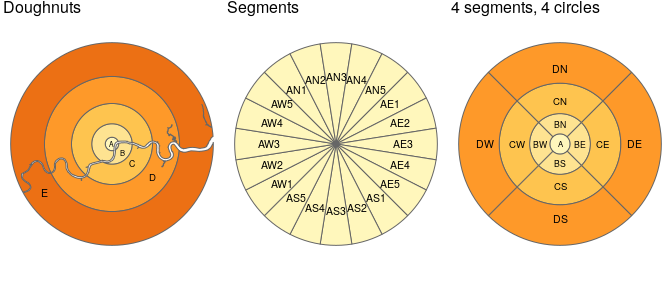
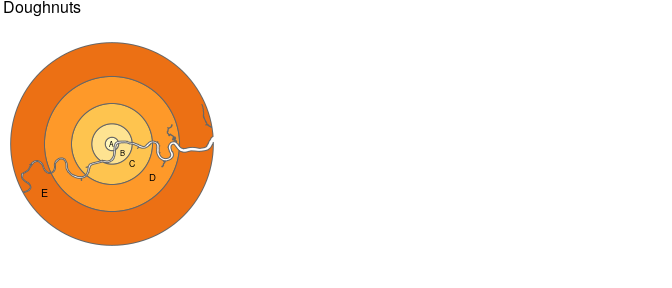
Update README - release version

diff --git a/README.md b/README.md
@@ -7,6 +7,8 @@
 <!-- [![Codecov test coverage](https://codecov.io/gh/zonebuilders/zonebuilder/branch/master/graph/badge.svg)](https://codecov.io/gh/zonebuilders/zonebuilder?branch=master) -->
 
 [![R-CMD-check](https://github.com/zonebuilders/zonebuilder/workflows/R-CMD-check/badge.svg)](https://github.com/zonebuilders/zonebuilder/actions)
+[![CRAN
+status](https://www.r-pkg.org/badges/version/zonebuilder)](https://CRAN.R-project.org/package=zonebuilder)
 <!-- badges: end -->
 
 The goal of zonebuilder is to break up large geographic regions such as
@@ -18,7 +20,12 @@ cities. See its website at
 
 ## Installation
 
-<!-- You can install the released version of zonebuilder from [CRAN](https://CRAN.R-project.org) with: -->
+You can install the released version of zonebuilder from
+[CRAN](https://CRAN.R-project.org) with:
+
+``` r
+install.packages("zonebuilder")
+```
 
 Install it from [GitHub](https://github.com/) with:
 
@@ -32,13 +39,13 @@ remotes::install_github("zonebuilders/zonebuilder")
 Zonebuilder builds on the `sf` package and works well with mapping
 packages such as `ggplot2`, `leaflet`, `mapdeck`, `mapview` and `tmap`,
 the last of which we’ll use in the following maps. Attaching the package
-provides the example datasets `london_area` and `london_cent`, the
+provides the example datasets `london_a()` and `london_c()`, the
 geographic boundary and the centre of London:
 
 ``` r
 library(zonebuilder)
 library(tmap)
-tm_shape(london_area) + tm_borders() + tm_shape(london_cent) + tm_dots("red")
+tm_shape(london_a()) + tm_borders() + tm_shape(london_c()) + tm_dots("red")
 ```
 
 <img src="man/figures/README-unnamed-chunk-3-1.png" width="100%" />
@@ -47,7 +54,7 @@ The main function `zb_zone` breaks this geographical scale into zones.
 The default settings follow the **ClockBoard** configuration:
 
 ``` r
-london_zones = zb_zone(london_cent, london_area)
+london_zones = zb_zone(london_c(), london_a())
 zb_plot(london_zones)
 ```
 
@@ -80,14 +87,24 @@ which can also be used directly:
 
 ``` r
 par(mfrow=c(1,3))
-zb_plot(zb_doughnut(london_cent, london_area, n_circles = 5), title = "Doughnuts")
-zb_plot(zb_segment(london_cent, n_segments = 20), title = "Segments")
-zb_plot(zb_zone(london_cent, n_circles = 4, n_segments = 4), title = "4 segments, 4 circles")
+zb_plot(zb_doughnut(london_c(), london_a(), n_circles = 5), title = "Doughnuts")
 ```
 
 <img src="man/figures/README-unnamed-chunk-5-1.png" width="100%" />
 
+``` r
+zb_plot(zb_segment(london_c(), n_segments = 20), title = "Segments")
+```
+
+<img src="man/figures/README-unnamed-chunk-5-2.png" width="100%" />
+
+``` r
+zb_plot(zb_zone(london_c(), n_circles = 4, n_segments = 4), title = "4 segments, 4 circles")
+```
+
+<img src="man/figures/README-unnamed-chunk-5-3.png" width="100%" />
+
 <!-- tmap_arrange( -->
-<!--   zb_view(zb_doughnut(london_cent, london_area, n_circles = 5), title = "Doughnuts"), -->
-<!--   zb_view(zb_segment(london_cent, n_segments = 20), title = "Segments") -->
+<!--   zb_view(zb_doughnut(london_c(), london_a(), n_circles = 5), title = "Doughnuts"), -->
+<!--   zb_view(zb_segment(london_c(), n_segments = 20), title = "Segments") -->
 <!--  ) -->

diff --git a/cran-comments.md b/cran-comments.md
@@ -1,3 +1,5 @@
+I have used \donttest{} to stop examples that took too long from causing issues on CRAN submission.
+
 Following feedback I have added documentation on the type of objects that different functions return.
 
 The function on.exit() was used to ensure no graphical parameters were changed by calling plot functions.
